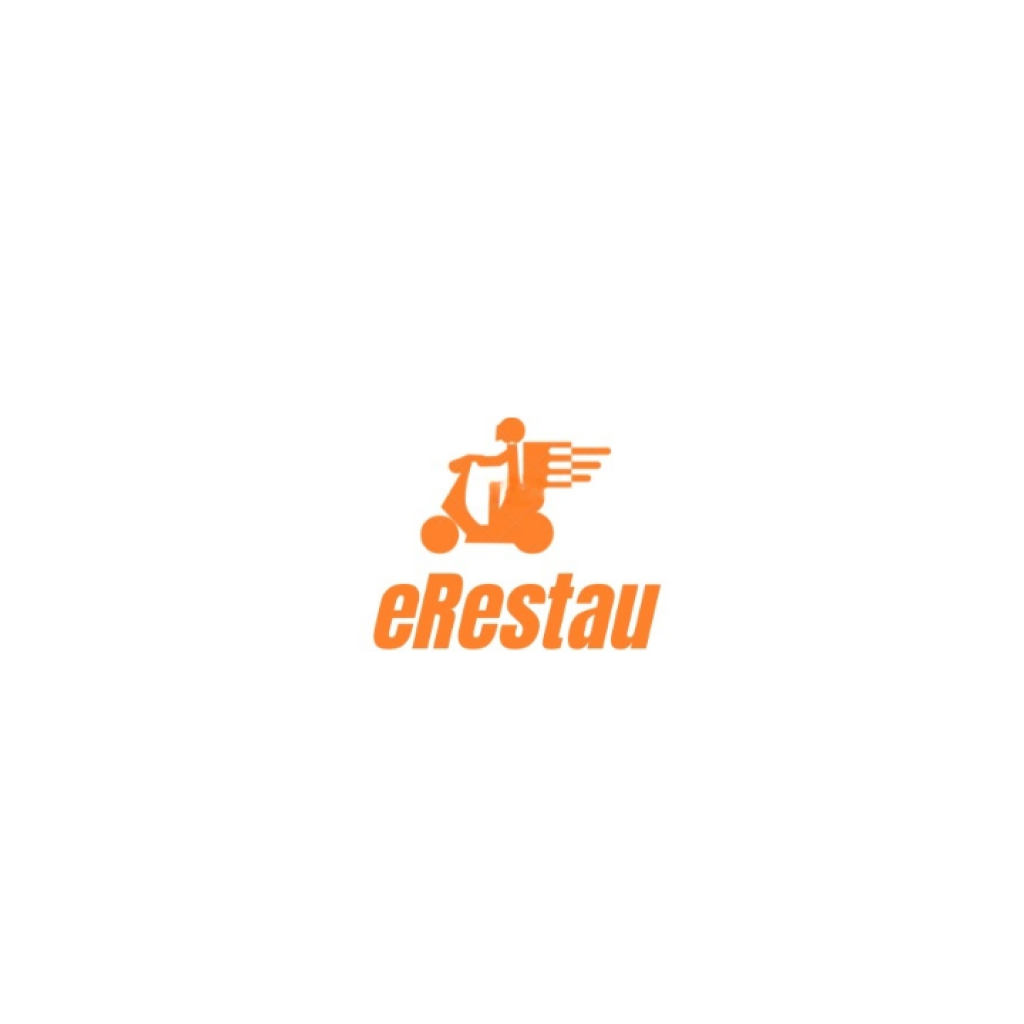
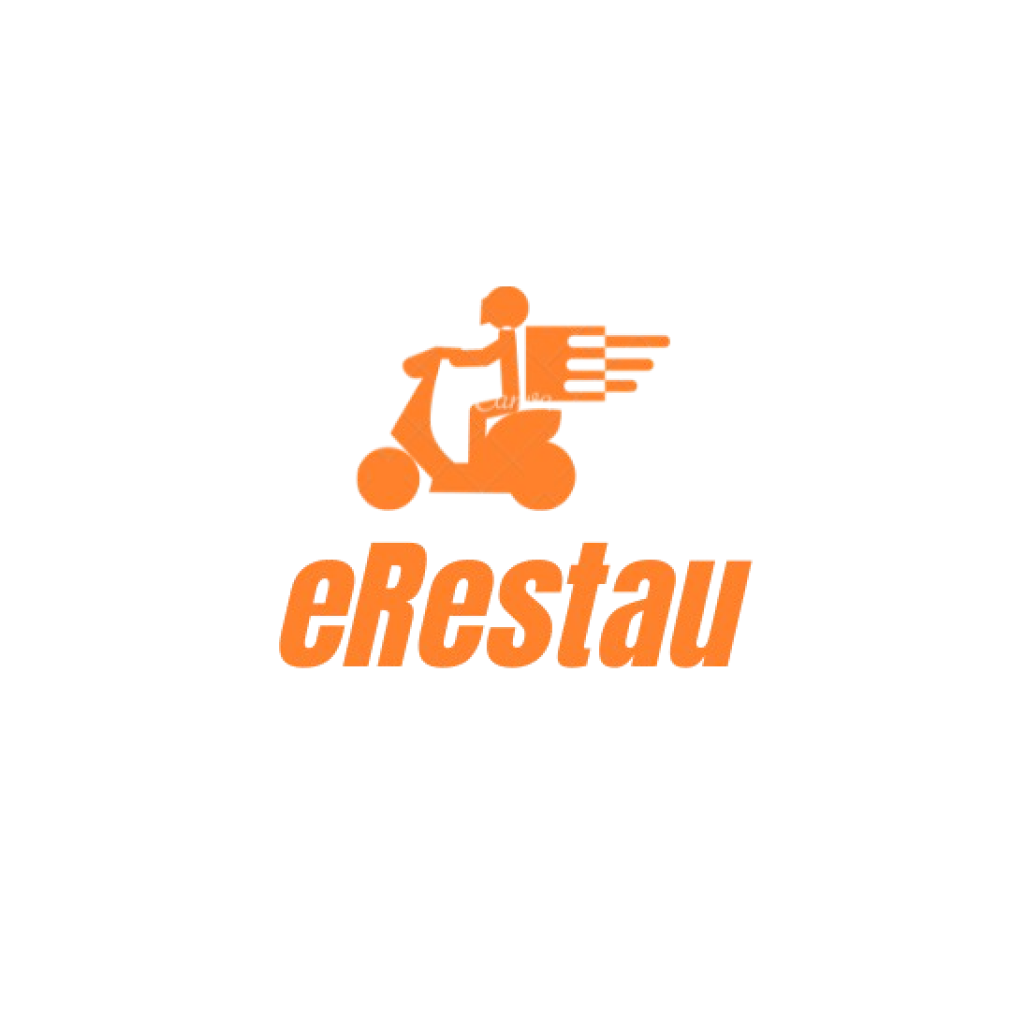
Added link for deleting user account
- added link to delete user account from profile screens
- updated splashscreen to look larger
- updated app Icon to look larger

Changed region(s): [[0.25, 0.2812, 0.75, 0.6562]]

diff --git a/src/screens/user/profileScreens/Profile.jsx b/src/screens/user/profileScreens/Profile.jsx
@@ -1,52 +1,72 @@
-import React,{useState} from "react";
-import { View, Text, Image, TouchableOpacity, StyleSheet } from "react-native";
+import React, { useState } from "react";
+import {
+  View,
+  Text,
+  TouchableOpacity,
+  StyleSheet,
+  Linking,
+} from "react-native";
 import { globalStyles } from "../../../styles/global";
 import Button from "../../../components/button/Button";
-import { Ionicons, MaterialIcons, AntDesign ,FontAwesome} from "@expo/vector-icons";
+import {
+  Ionicons,
+  AntDesign,
+  FontAwesome,
+  FontAwesome5,
+} from "@expo/vector-icons";
 import Tile from "../../../components/tile/Tile";
-import { useDispatch , useSelector} from "react-redux";
-import { logout} from "../../../redux/reducers/authReducer";
+import { useDispatch, useSelector } from "react-redux";
+import { logout } from "../../../redux/reducers/authReducer";
 import Loader from "../../../components/loader/Loader";
-
 
 const Profile = ({ navigation }) => {
   const [loading, setLoading] = useState(false);
 
-  const user = useSelector((state)=>state.auth.user)
+  const loadInBrowser = () => {
+    Linking.openURL("https://alzironsystems.com/erestau-remove-user-data/").catch((err) =>
+      console.error("Couldn't load page", err)
+    );
+  };
 
-  const dispatch =  useDispatch()
-  const handlelogout= async () => {
+  const user = useSelector((state) => state.auth.user);
+
+  const dispatch = useDispatch();
+  const handlelogout = async () => {
     try {
-      setLoading(true)
+      setLoading(true);
       await dispatch(logout()).unwrap();
-      setLoading(false)
+      setLoading(false);
     } catch (error) {
       console.log(error);
-      setLoading(false)
+      setLoading(false);
     }
   };
-  if(loading){
-    return <Loader/>
+  if (loading) {
+    return <Loader />;
   }
 
   return (
     <View style={styles.container}>
       <View style={styles.ProfileView}>
         <TouchableOpacity activeOpacity={0.6} style={styles.imageView}>
-          {/* <Image
-            source={require("../../../../assets/images/restaurant.jpg")}
-
+          <FontAwesome
+            name="user-circle"
+            size={120}
+            color="silver"
             style={styles.image}
-          /> */}
-          <FontAwesome name="user-circle" size={120} color="silver" style={styles.image} />
+          />
         </TouchableOpacity>
         <View style={styles.infoView}>
-          <Text style={{...globalStyles.textLarge,textTransform:"capitalize"}}>{user.username}</Text>
-          <Text style={[globalStyles.textGrey, globalStyles.textBody]}>
-          {user.location}
+          <Text
+            style={{ ...globalStyles.textLarge, textTransform: "capitalize" }}
+          >
+            {user.username}
           </Text>
           <Text style={[globalStyles.textGrey, globalStyles.textBody]}>
-          {user.phone}
+            {user.location}
+          </Text>
+          <Text style={[globalStyles.textGrey, globalStyles.textBody]}>
+            {user.phone}
           </Text>
           <Button
             title={<Text style={globalStyles.textLarge}>Edit</Text>}
@@ -54,32 +74,27 @@ const Profile = ({ navigation }) => {
           />
         </View>
       </View>
-      {/* <Tile
-        label="Settings"
-        icon={<Ionicons name="settings" size={34} color="black" />}
-        onpress={() =>
-          navigation.navigate("ProfileStack", { screen: "Settings" })
-        }
-      /> */}
       <Tile
         label="Notifications"
         icon={<Ionicons name="notifications" size={34} color="black" />}
       />
-      {/* <Tile
-        label="Location"
-        icon={<Ionicons name="location" size={34} color="black" />}
-      /> */}
-      {/* <Tile
-        label="Favourites"
-        icon={<MaterialIcons name="favorite" size={34} color="black" />}
-      /> */}
+      <Tile
+        label="Delete Account"
+        icon={<FontAwesome5 name="user-edit" size={28} color="black" adjustToFitSize />}
+        onpress={loadInBrowser}
+      />
       <Tile
         label="About"
-        icon={<Ionicons name="information-circle" size={34} color="black" 
-        onpress={() =>
-          navigation.navigate("ProfileStack", { screen: "About" })
+        icon={
+          <Ionicons
+            name="information-circle"
+            size={34}
+            color="black"
+            onpress={() =>
+              navigation.navigate("ProfileStack", { screen: "About" })
+            }
+          />
         }
-        />}
       />
       <Tile
         label="Logout"
@@ -115,7 +130,6 @@ const styles = StyleSheet.create({
     alignItems: "flex-start",
     justifyContent: "space-between",
   },
-
 });
 
 export default Profile;

diff --git a/src/screens/restau/profileScreens/Profile.jsx b/src/screens/restau/profileScreens/Profile.jsx
@@ -1,95 +1,103 @@
-import React,{useState} from "react";
-import { View, Text, Image, TouchableOpacity, StyleSheet } from "react-native";
+import React, { useState } from "react";
+import { View, Text,TouchableOpacity, StyleSheet,Linking } from "react-native";
 import { globalStyles } from "../../../styles/global";
 import Button from "../../../components/button/Button";
-import { Ionicons, MaterialIcons, AntDesign,FontAwesome } from "@expo/vector-icons";
+import {
+  Ionicons,
+  AntDesign,
+  FontAwesome,
+  FontAwesome5,
+} from "@expo/vector-icons";
 import Tile from "../../../components/tile/Tile";
 import { useDispatch, useSelector } from "react-redux";
 import { logout } from "../../../redux/reducers/authReducer";
 import Loader from "../../../components/loader/Loader";
 
-
 const Profile = ({ navigation }) => {
   const [loading, setLoading] = useState(false);
 
-  const user = useSelector((state)=>state.auth.user)
-  const dispatch =  useDispatch()
-  const handlelogout= async () => {
+  const loadInBrowser = () => {
+    Linking.openURL(
+      "https://alzironsystems.com/erestau-remove-user-data/"
+    ).catch((err) => console.error("Couldn't load page", err));
+  };
+
+  const user = useSelector((state) => state.auth.user);
+  const dispatch = useDispatch();
+  const handlelogout = async () => {
     try {
-      setLoading(true)
+      setLoading(true);
       await dispatch(logout()).unwrap();
-      setLoading(false)
+      setLoading(false);
     } catch (error) {
       console.log(error);
-      setLoading(false)
+      setLoading(false);
     }
   };
-  // if(loading){
-  //   return <Loader/>
-  // }
-
 
   return (
     <View style={styles.container}>
       <View style={styles.ProfileView}>
         <TouchableOpacity activeOpacity={0.6} style={styles.imageView}>
-          {/* <Image
-            source={require("../../../../assets/images/restaurant.jpg")}
+          <FontAwesome
+            name="user-circle"
+            size={120}
+            color="silver"
             style={styles.image}
-          /> */}
-          <FontAwesome name="user-circle" size={120} color="silver" style={styles.image} />
-
+          />
         </TouchableOpacity>
         <View style={styles.infoView}>
-          <Text style={{...globalStyles.textLarge,textTransform:"capitalize"}}>{user.username}</Text>
+          <Text
+            style={{ ...globalStyles.textLarge, textTransform: "capitalize" }}
+          >
+            {user.username}
+          </Text>
           <Text style={[globalStyles.textGrey, globalStyles.textBody]}>
             {user.location}
           </Text>
-          <Text style={globalStyles.textGrey}>
-            {user.phone}
-          </Text>
+          <Text style={globalStyles.textGrey}>{user.phone}</Text>
           <Button
             title={<Text style={globalStyles.textLarge}>Edit</Text>}
             btnWidth="70%"
           />
         </View>
       </View>
-      {/* <Tile
-        label="Settings"
-        icon={<Ionicons name="settings" size={34} color="black" />}
-        onpress={() =>
-          navigation.navigate("ProfileStack", { screen: "Settings" })
-        }
-      /> */}
       <Tile
         label="Notifications"
         icon={<Ionicons name="notifications" size={34} color="black" />}
-        onpress={()=>
+        onpress={() =>
           navigation.navigate("ProfileStack", { screen: "Notifications" })
-          }
+        }
       />
-      {/* <Tile
-        label="Location"
-        icon={<Ionicons name="location" size={34} color="black" />}
-      /> */}
-      {/* <Tile
-        label="Favourites"
-        icon={<MaterialIcons name="favorite" size={34} color="black" />}
-      /> */}
+      <Tile
+        label="Delete Account"
+        icon={
+          <FontAwesome5
+            name="user-edit"
+            size={28}
+            color="black"
+            adjustToFitSize
+          />
+        }
+        onpress={loadInBrowser}
+      />
       <Tile
         label="About"
-        icon={<Ionicons name="information-circle" size={34} color="black" 
-        onpress={() =>
-          navigation.navigate("ProfileStack", { screen: "About" })
-        }  
-        />
-      }
+        icon={
+          <Ionicons
+            name="information-circle"
+            size={34}
+            color="black"
+            onpress={() =>
+              navigation.navigate("ProfileStack", { screen: "About" })
+            }
+          />
+        }
       />
       <Tile
         label="Logout"
         icon={<AntDesign name="logout" size={34} color="black" />}
         onpress={handlelogout}
-
       />
     </View>
   );
